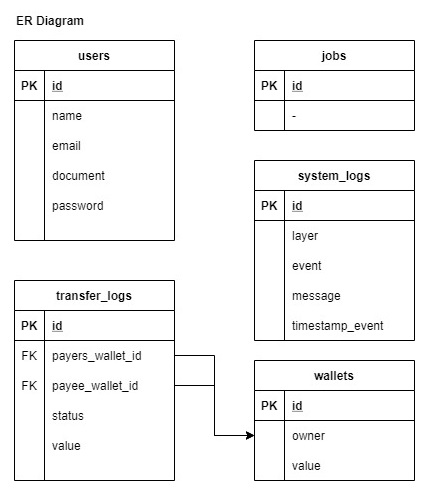
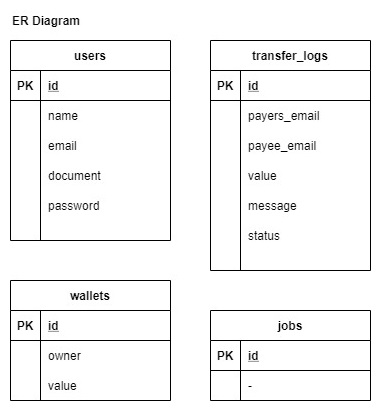
feat/register transfer log

diff --git a/api/app/Http/Controllers/TransferController.php b/api/app/Http/Controllers/TransferController.php
@@ -12,6 +12,7 @@ use App\Services\WalletService;
 use App\Services\TransferAuthService;
 use App\Rules\EmailRule;
 use App\Rules\ValueRule;
+use App\Events\TransferLogEvent;
 
 class TransferController extends Controller
 {
@@ -51,9 +52,9 @@ class TransferController extends Controller
     public function valuesTransfers()
     {
         try {
-            $data = $this->validateRequestData();
-
-            $payer_wallet = $this->walletService->getUserWallet($data['user_email_payer']);
+            $transferLogEvent   = new TransferLogEvent();
+            $data               = $this->validateRequestData();
+            $payer_wallet       = $this->walletService->getUserWallet($data['user_email_payer']);
 
             if ($this->transferAuthService->userIsShopkeeper($data['user_email_payer'])) {
                 throw new \Exception("Shopkeeper cannot transfer");
@@ -71,11 +72,19 @@ class TransferController extends Controller
 
                 $payee_wallet->value = $payee_wallet->value + $data['value'];
                 $payee_wallet->save();
-
-                // register success transfer log
             });
 
+            $transferLogEvent->payer_email  = $data['user_email_payer'];
+            $transferLogEvent->payee_email  = $data['user_email_payee'];
+            $transferLogEvent->value        = $data['value'];
+            $transferLogEvent->message      = "Transfer complete";
+            $transferLogEvent->status       = "success";
+
+            event($transferLogEvent);
+
+
             // notification queue
+
 
             return new JsonResponse(
                 [
@@ -87,12 +96,20 @@ class TransferController extends Controller
             );
         }
         catch (\Exception $ex) {
-            // transfer log $ex->getMessage()
+
+            $transferLogEvent->payer_email  = $data['user_email_payer'];
+            $transferLogEvent->payee_email  = $data['user_email_payee'];
+            $transferLogEvent->value        = $data['value'];
+            $transferLogEvent->message      = $ex->getMessage();
+            $transferLogEvent->status       = "error";
+
+            event($transferLogEvent);
+
             return new JsonResponse(
                 [
                     'status'    => false,
                     'data'      => [],
-                    'message'   => $ex->getMessage()
+                    'message'   => "An error occurred while performing the transfer"
                 ],
                 400
             );
@@ -107,20 +124,26 @@ class TransferController extends Controller
     public function transfersDetails()
     {
         try {
-            $data = $this->request->only([
-                'user_email'
-            ]);
+            $transferLogEvent   = new TransferLogEvent();
 
             return new JsonResponse(
                 [
                     'status'    => true,
-                    'data'      => $data,
+                    'data'      => [],
                     'message'   => ""
                 ],
                 200
             );
         } catch (\Exception $ex) {
-            // transfer log $ex->getMessage()
+
+            $transferLogEvent->payer_email  = '';
+            $transferLogEvent->payee_email  = '';
+            $transferLogEvent->value        = '';
+            $transferLogEvent->message      = '';
+            $transferLogEvent->status       = "error";
+
+            event($transferLogEvent);
+
             return new JsonResponse(
                 [
                     'status'    => false,

diff --git a/api/app/Http/Middleware/TransferAuthMiddleware.php b/api/app/Http/Middleware/TransferAuthMiddleware.php
@@ -8,6 +8,7 @@ use Illuminate\Http\JsonResponse;
 
 use App\Repositories\User\UserRepositoryInterface;
 use App\Services\TransferAuthService;
+use App\Events\TransferLogEvent;
 
 class TransferAuthMiddleware
 {
@@ -23,6 +24,7 @@ class TransferAuthMiddleware
      *
      * @param UserRepositoryInterface $user
      * @param TransferAuthService $transferAuthService
+     * @return void
      */
     public function __construct(UserRepositoryInterface $user, TransferAuthService $transferAuthService)
     {
@@ -55,7 +57,17 @@ class TransferAuthMiddleware
             return $next($request);
 
         } catch (\Exception $ex) {
-            // transfer log $ex->getMessage()
+
+            $transferLogEvent = new TransferLogEvent();
+
+            $transferLogEvent->payer_email  = $request->user_email_payer;
+            $transferLogEvent->payee_email  = $request->user_email_payee;
+            $transferLogEvent->value        = $request->value;
+            $transferLogEvent->message      = $ex->getMessage();
+            $transferLogEvent->status       = "error";
+
+            event($transferLogEvent);
+
             return new JsonResponse(
                 [
                     'status'    => false,

diff --git a/api/app/Repositories/Log/Transfer/TransferLogRepository.php b/api/app/Repositories/Log/Transfer/TransferLogRepository.php
@@ -1,0 +1,45 @@
+<?php
+
+namespace App\Repositories\Log\Transfer;
+
+use App\Repositories\Log\LogRepositoryInterface;
+use App\Models\TransferLog;
+
+class TransferLogRepository implements LogRepositoryInterface
+{
+    /**
+     * @var $transferLog
+     */
+    private $transferLog;
+
+    /**
+     * TransferLogRepository constructor
+     *
+     * @param TransferLog $transferLog
+     * @return void
+     */
+    public function __construct(TransferLog $transferLog)
+    {
+        $this->transferLog = $transferLog;
+    }
+
+    /**
+     * Register data to Transfer log
+     *
+     * @param array $data['payer_email', 'payee_email', 'message', 'value']
+     * @return bool
+     */
+    public function save($data)
+    {
+        if (count($data) === 0) {
+            return false;
+        }
+
+        foreach ($data as $key => $value) {
+            $this->transferLog->$key = $value;
+        }
+        $this->transferLog->save();
+
+        return true;
+    }
+}

diff --git a/api/app/Listeners/TransferLogListener.php b/api/app/Listeners/TransferLogListener.php
@@ -1,0 +1,43 @@
+<?php
+
+namespace App\Listeners;
+
+use Illuminate\Contracts\Queue\ShouldQueue;
+use Illuminate\Queue\InteractsWithQueue;
+use App\Events\TransferLogEvent;
+use App\Repositories\Log\Transfer\TransferLogRepository;
+
+class TransferLogListener
+{
+    /**
+     * @var $transferLogRepository
+     */
+    private $transferLogRepository
+    ;
+    /**
+     * Create the event listener.
+     *
+     * @return void
+     */
+    public function __construct(TransferLogRepository $transferLogRepository)
+    {
+        $this->transferLogRepository = $transferLogRepository;
+    }
+
+    /**
+     * Handle the event.
+     *
+     * @param TransferLogEvent $event
+     * @return void
+     */
+    public function handle(TransferLogEvent $event)
+    {
+        $data = [];
+
+        foreach ($event as $key => $value) {
+            $data[$key] = $value;
+        }
+
+        $this->transferLogRepository->save($data);
+    }
+}

diff --git a/api/database/migrations/2021_04_02_181920_create_transfer_logs_table.php b/api/database/migrations/2021_04_02_181920_create_transfer_logs_table.php
@@ -15,10 +15,11 @@ class CreateTransferLogsTable extends Migration
     {
         Schema::create('transfer_logs', function (Blueprint $table) {
             $table->id();
-            $table->integer('payer_wallet_id');
-            $table->integer('payee_wallet_id');
+            $table->string('payer_email');
+            $table->string('payee_email');
+            $table->string('value');
+            $table->string('message');
             $table->string('status');
-            $table->integer('value');
             $table->timestamps();
         });
     }

diff --git a/api/app/Events/TransferLogEvent.php b/api/app/Events/TransferLogEvent.php
@@ -1,0 +1,22 @@
+<?php
+
+namespace App\Events;
+
+class TransferLogEvent extends Event
+{
+    /**
+     * TransferLogEvent getter
+     */
+    public function __get($property)
+    {
+        return $this->$property;
+    }
+
+    /**
+     * TransferLogEvent setter
+     */
+    public function __set($property, $value)
+    {
+        $this->$property = $value;
+    }
+}

diff --git a/api/bootstrap/app.php b/api/bootstrap/app.php
@@ -96,7 +96,7 @@ $app->routeMiddleware([
 
 $app->register(App\Providers\AppServiceProvider::class);
 // $app->register(App\Providers\AuthServiceProvider::class);
-// $app->register(App\Providers\EventServiceProvider::class);
+$app->register(App\Providers\EventServiceProvider::class);
 
 /*
 |--------------------------------------------------------------------------

diff --git a/api/app/Models/TransferLog.php b/api/app/Models/TransferLog.php
@@ -19,9 +19,10 @@ class TransferLog extends Model implements AuthenticatableContract, Authorizable
      * @var array
      */
     protected $fillable = [
-        'payer_wallet_id',
-        'payee_wallet_id',
-        'status',
-        'value'
+        'payer_email',
+        'payee_email',
+        'value',
+        'message',
+        'status'
     ];
 }

diff --git a/api/app/Providers/EventServiceProvider.php b/api/app/Providers/EventServiceProvider.php
@@ -12,8 +12,8 @@ class EventServiceProvider extends ServiceProvider
      * @var array
      */
     protected $listen = [
-        \App\Events\ExampleEvent::class => [
-            \App\Listeners\ExampleListener::class,
+        \App\Events\TransferLogEvent::class => [
+            \App\Listeners\TransferLogListener::class,
         ],
     ];
 }

diff --git a/api/app/Repositories/Log/LogRepositoryInterface.php b/api/app/Repositories/Log/LogRepositoryInterface.php
@@ -1,0 +1,8 @@
+<?php
+
+namespace App\Repositories\Log;
+
+interface LogRepositoryInterface
+{
+    public function save($data);
+}

diff --git a/README.md b/README.md
@@ -50,6 +50,11 @@ Some flow diagrams can help you to understand the application proposal.
 
 ### TransferAuthMiddleware
 
+## Rules ✔
+
+### EmailRule
+### ValueRule
+
 ---
 ## Controllers 🎮
 
@@ -73,8 +78,6 @@ Some flow diagrams can help you to understand the application proposal.
 
 ### TransferLogRepository
 
-### SystemLogRepository
-
 ---
 ## Models 💾
 ### User
@@ -82,7 +85,5 @@ Some flow diagrams can help you to understand the application proposal.
 ### Wallet
 
 ### TransferLog
-
-### SystemLog
 
 ### Job
